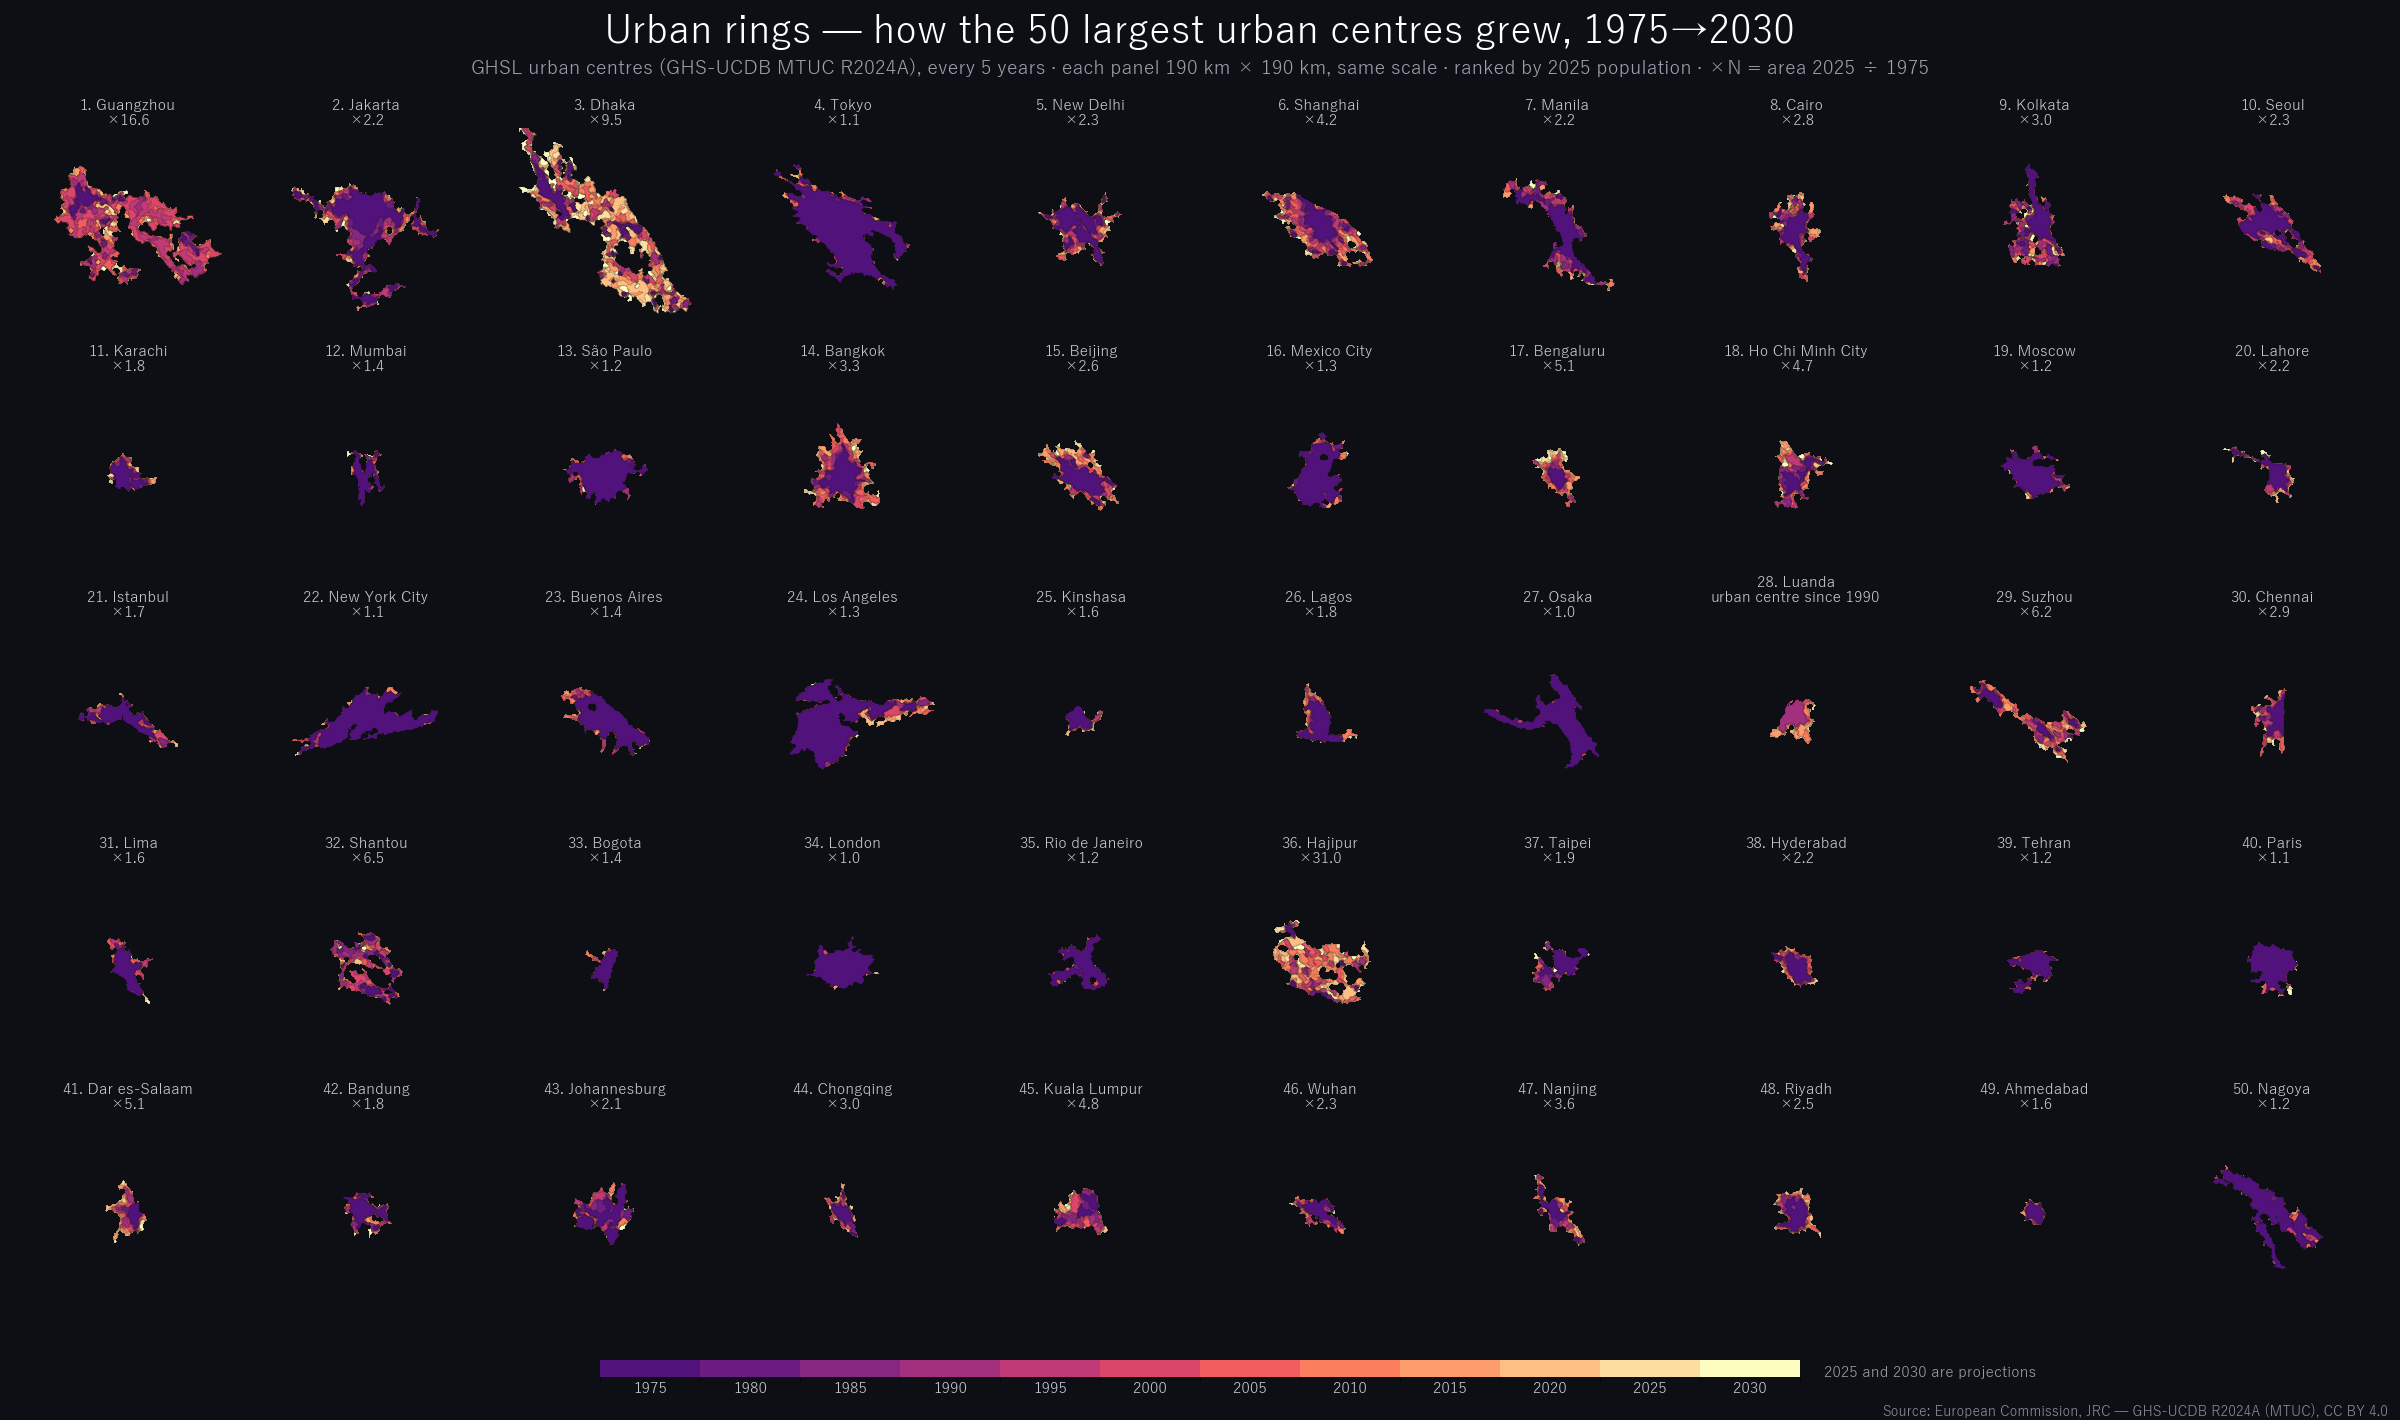
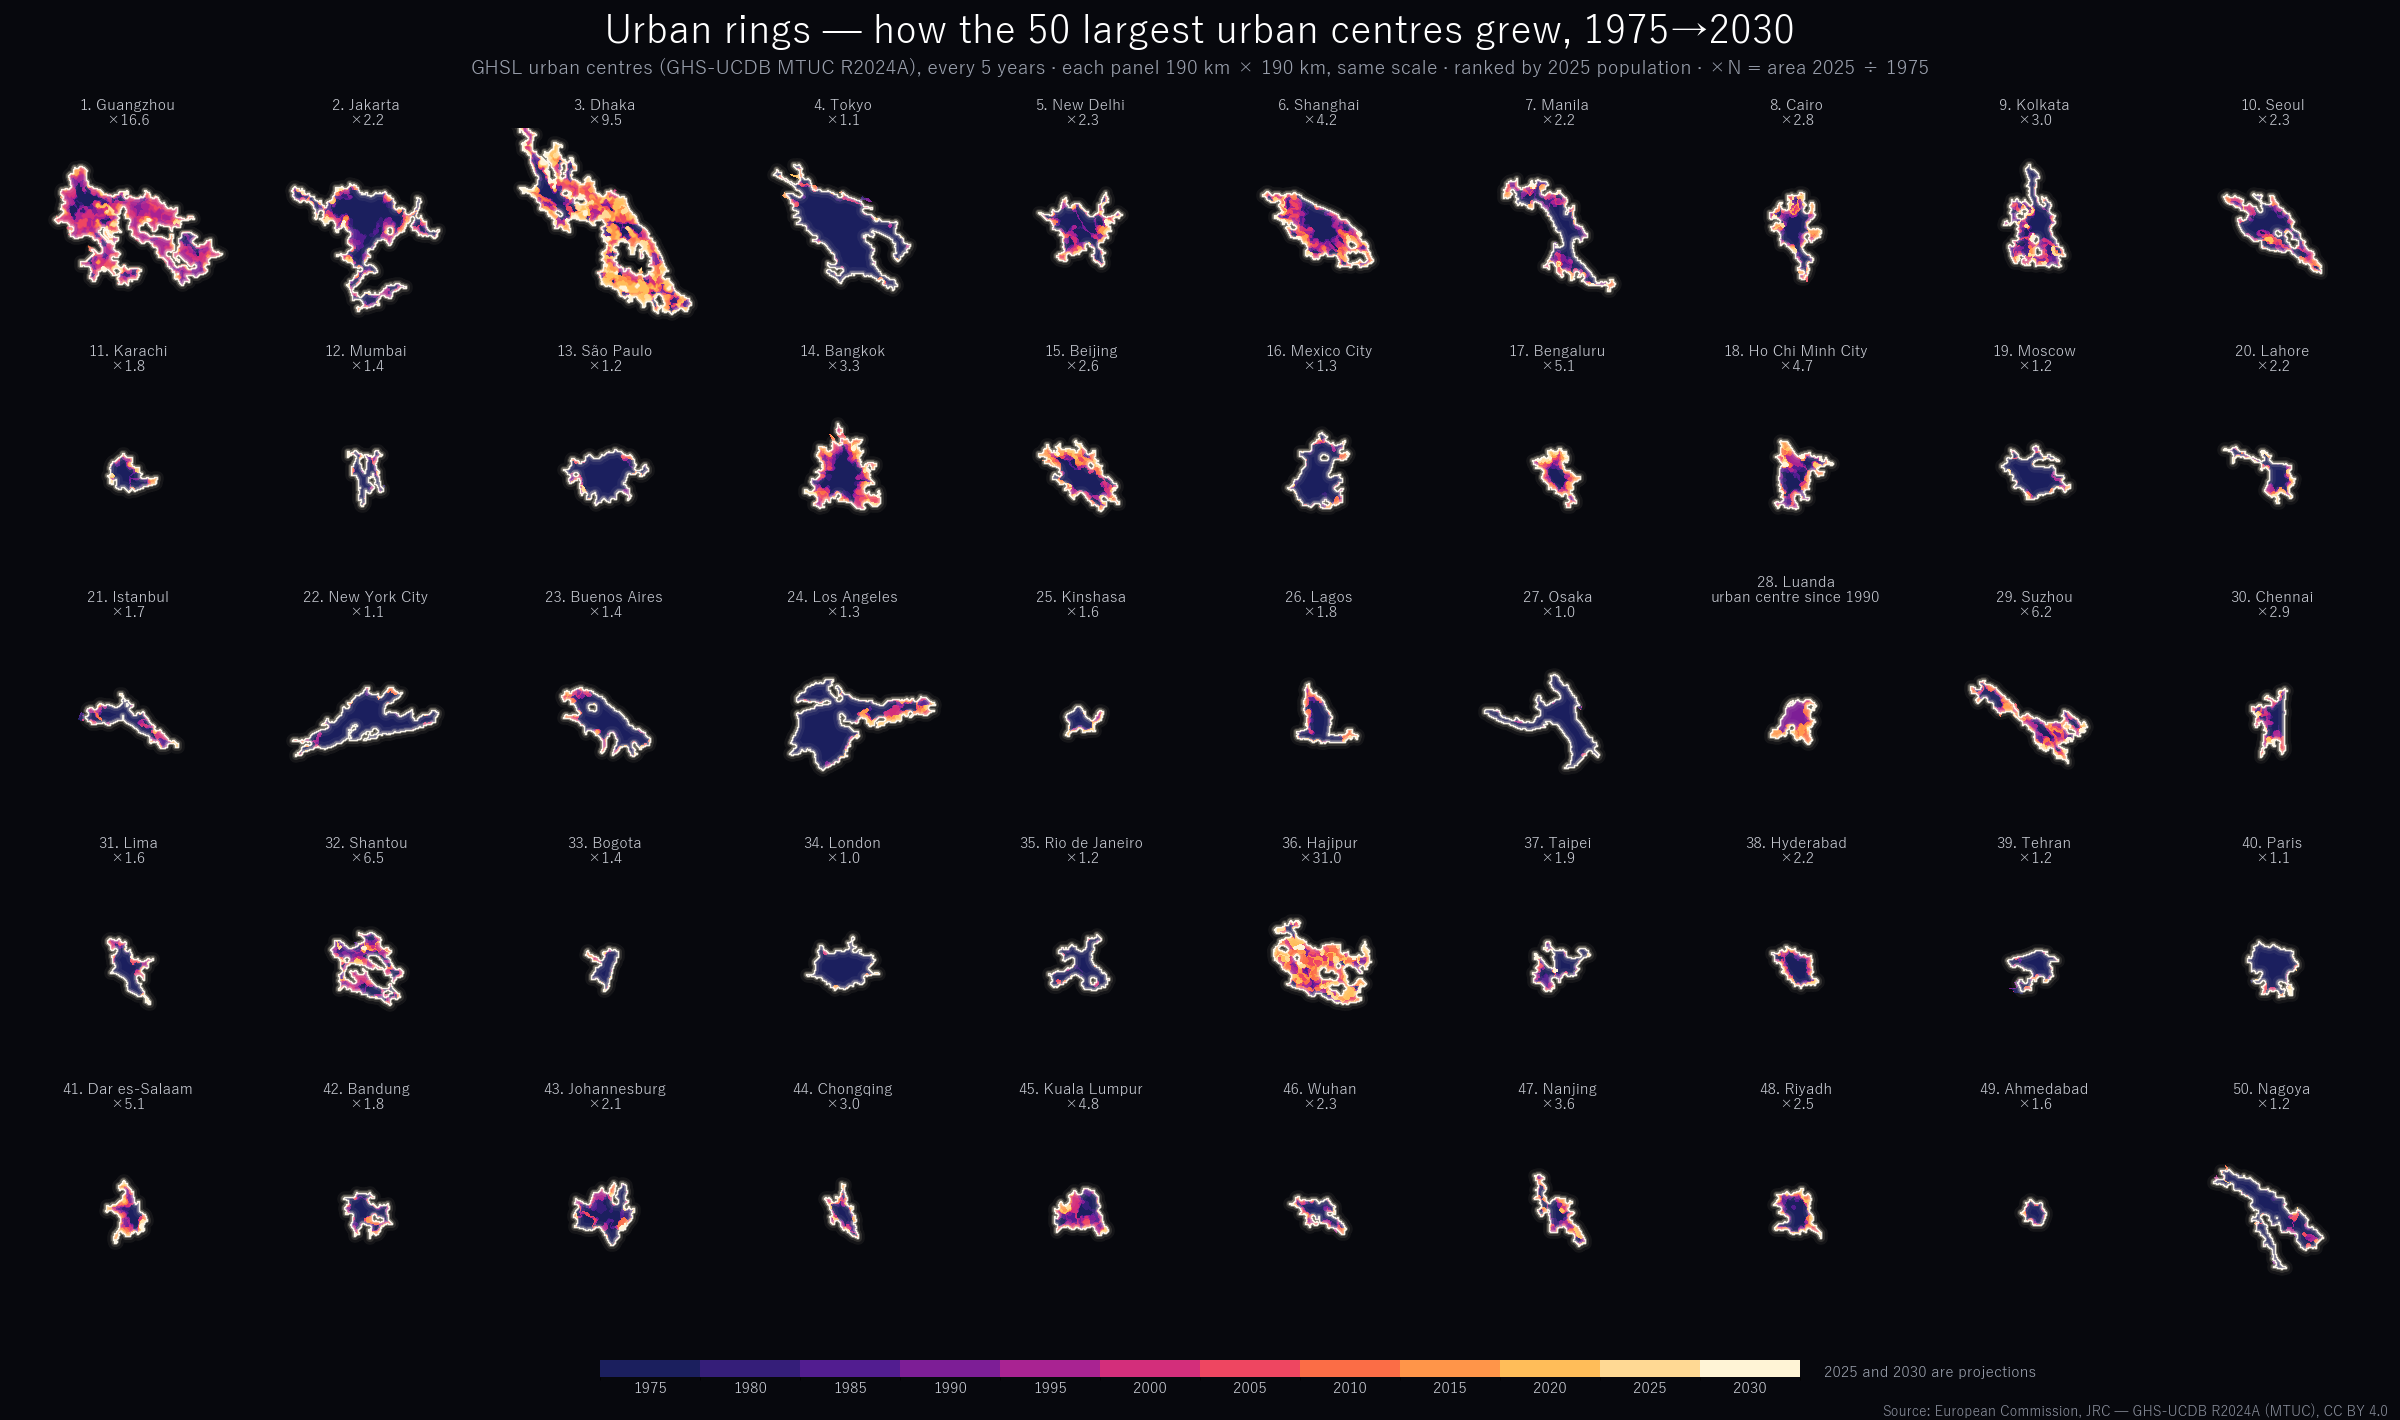
Day 3: 都市の年輪を年ごとのアニメーション（GIF・MP4）にし、配色と外周の発光を見直す (#21)
- 配色を暗い藍→白の12段にし、その年の外周を光らせる
- 図形は一度だけ作り、年ごとに表示を切り替えて書き出す（12コマで約20秒）

Claude-Session: https://claude.ai/code/session_01LQyb2CPPtaLAQQwmG6ctKN

diff --git a/day03-polygons/scripts/urban_rings.py b/day03-polygons/scripts/urban_rings.py
@@ -1,35 +1,46 @@
 """都市の年輪: GHS-UCDB R2024A MTUC の都市中心のポリゴンを、1975〜2030年の12時点で重ねる。
 
-使い方: python -I -X utf8 scripts/urban_rings.py data/ucdb_mtuc/GHS_UCDB_MTUC_GLOBE_R2024A.gpkg output
+使い方:
+  python -I -X utf8 scripts/urban_rings.py <MTUC の gpkg> <出力フォルダ> [still|anim|all]
+    still: urban_rings.png（1枚の図）と、確認用の途中の年の静止画 check_2000.png
+    anim:  urban_rings.gif と urban_rings.mp4（年ごとに広がっていくアニメーション）
 
 - 対象は、2025年の人口（MT_POP_TOT_2025）の上位50の都市中心
 - 各図は都市中心の2025年のポリゴンの重心を中心にした 190 km 四方。全部同じ縮尺（いちばん大きいダッカも収まる）
 - 年ごとのレイヤーから、その都市中心と同じ ID（ID_UC_G0 = ID_MTUC_G0）のポリゴンだけを描く。
   のちに合体した部分も同じ ID のマルチポリゴンになっているので、昔の姿までさかのぼれる
-- 新しい年から先に描き、古い年を上に重ねる（年輪のように、内側ほど古い）
+- 新しい年を下に、古い年を上に重ねる（年輪のように、内側ほど古い）
+- その時点でいちばん新しい年の外周を光らせる（太さと濃さを変えた線を重ねて、ぼかしたように見せる）
 - 倍率は MT_UCA_KM2_2025 ÷ MT_UCA_KM2_1975（データの面積の列をそのまま使う）
-- 出力: urban_rings.png（1枚の図）と urban_rings_top50.csv（使った都市と面積）
+- 図形は最初に一度だけ作り、コマごとには表示を切り替えるだけにする（描き直さない）
 """
 
+import shutil
+import subprocess
 import sys
 from pathlib import Path
 
 import geopandas as gpd
 import matplotlib
+import numpy as np
 
 matplotlib.use("Agg")
 import matplotlib.pyplot as plt
-from matplotlib import colormaps
-from matplotlib.colors import BoundaryNorm, ListedColormap, to_hex
+from matplotlib.colors import BoundaryNorm, LinearSegmentedColormap, ListedColormap, to_hex
+from matplotlib.patches import PathPatch
+from matplotlib.path import Path as MPath
 
 plt.rcParams["font.family"] = ["Yu Gothic", "Meiryo", "sans-serif"]
 
 YEARS = list(range(1975, 2031, 5))
 N = 50
 HALF = 95_000  # 図の半分の幅（m）
-BG = "#0d0f14"
-COLORS = [to_hex(colormaps["magma"](0.25 + 0.75 * i / (len(YEARS) - 1))) for i in range(len(YEARS))]
+BG = "#07080d"
+# 古い年は暗い藍、新しい年ほど熱い白に近づく（街の灯が外へ広がる見え方）
+RAMP = LinearSegmentedColormap.from_list("rings", ["#1b1f5e", "#4b1d8f", "#9b1f9a", "#e8336f", "#ff7a3d", "#ffc35c", "#fff4d6"])
+COLORS = [to_hex(RAMP(i / (len(YEARS) - 1))) for i in range(len(YEARS))]
 COL = dict(zip(YEARS, COLORS))
+GLOW = [(9.0, 0.06), (5.0, 0.12), (2.6, 0.30), (1.0, 0.95)]  # (線の太さ, 不透明度) 外側から
 
 
 def load(gpkg: str):
@@ -43,6 +54,16 @@ def load(gpkg: str):
     return top, layers
 
 
+def to_path(geom) -> MPath:
+    verts, codes = [], []
+    for p in getattr(geom, "geoms", [geom]):
+        for ring in [p.exterior, *p.interiors]:
+            c = np.asarray(ring.coords)
+            verts += c.tolist()
+            codes += [MPath.MOVETO] + [MPath.LINETO] * (len(c) - 2) + [MPath.CLOSEPOLY]
+    return MPath(verts, codes)
+
+
 def label(r) -> str:
     a75, a25 = r.MT_UCA_KM2_1975, r.MT_UCA_KM2_2025
     # 1975年に都市中心がなかった都市は、面積が空になっている。倍率の代わりに、都市中心になった年を書く
@@ -50,49 +71,83 @@ def label(r) -> str:
     return f"{r.GC_UCN_MAI_2025}\n{grow}"
 
 
-def draw(top, layers, upto: int, out: Path, show_year: bool = False):
+def build(top, layers):
+    """図と、年ごとの塗り・光の Patch を作って返す。表示はあとで切り替える"""
     cols, rows = 10, 5
     fig, axs = plt.subplots(rows, cols, figsize=(24, 14.2), facecolor=BG)
+    fills = {y: [] for y in YEARS}
+    glows = {y: [] for y in YEARS}
     for ax in axs.flat:
         ax.set_axis_off()
-    shown = [y for y in YEARS if y <= upto]
     for k, r in top.iterrows():
         ax = axs.flat[k]
         c = layers[2025].loc[r.ID_MTUC_G0].geometry.centroid
         ax.set_xlim(c.x - HALF, c.x + HALF)
         ax.set_ylim(c.y - HALF, c.y + HALF)
         ax.set_aspect("equal")
-        for y in reversed(shown):
-            if r.ID_MTUC_G0 in layers[y].index:
-                gpd.GeoSeries([layers[y].loc[r.ID_MTUC_G0].geometry]).plot(ax=ax, fc=COL[y], ec=BG, lw=0.15)
+        for i, y in enumerate(YEARS):
+            if r.ID_MTUC_G0 not in layers[y].index:
+                continue
+            path = to_path(layers[y].loc[r.ID_MTUC_G0].geometry)
+            z = 100 - i  # 古い年ほど上
+            fills[y].append(ax.add_patch(PathPatch(path, fc=COL[y], ec="none", zorder=z)))
+            for lw, a in GLOW:
+                ec = "#fffaf0" if lw < 2 else COL[y]
+                glows[y].append(ax.add_patch(PathPatch(path, fc="none", ec=ec, lw=lw, alpha=a, zorder=200, joinstyle="round")))
         ax.set_title(f"{k + 1}. {label(r)}", color="#c9ccd4", fontsize=11, pad=2, linespacing=1.15)
     fig.suptitle("Urban rings — how the 50 largest urban centres grew, 1975→2030", color="white", fontsize=28, y=0.99)
-    fig.text(0.5, 0.948, f"GHSL urban centres (GHS-UCDB MTUC R2024A), every 5 years · each panel 190 km × 190 km, same scale · ranked by 2025 population · ×N = area 2025 ÷ 1975",
+    fig.text(0.5, 0.948, "GHSL urban centres (GHS-UCDB MTUC R2024A), every 5 years · each panel 190 km × 190 km, same scale · ranked by 2025 population · ×N = area 2025 ÷ 1975",
              color="#9aa0ad", fontsize=14, ha="center")
-    # 凡例: 年ごとの色の帯
     cax = fig.add_axes([0.25, 0.03, 0.5, 0.012])
-    cmap = ListedColormap(COLORS)
     norm = BoundaryNorm(range(len(YEARS) + 1), len(YEARS))
-    cb = fig.colorbar(plt.cm.ScalarMappable(cmap=cmap, norm=norm), cax=cax, orientation="horizontal")
+    cb = fig.colorbar(plt.cm.ScalarMappable(cmap=ListedColormap(COLORS), norm=norm), cax=cax, orientation="horizontal")
     cb.set_ticks([i + 0.5 for i in range(len(YEARS))], labels=[str(y) for y in YEARS])
     cb.ax.tick_params(colors="#c9ccd4", labelsize=11, length=0)
     cb.outline.set_visible(False)
     fig.text(0.76, 0.03, "2025 and 2030 are projections", color="#9aa0ad", fontsize=11)
-    if show_year:
-        fig.text(0.5, 0.03, str(upto) + (" (projection)" if upto > 2020 else ""), color=COL[upto], fontsize=34, ha="center", weight="bold")
     fig.text(0.995, 0.003, "Source: European Commission, JRC — GHS-UCDB R2024A (MTUC), CC BY 4.0", color="#8a8f9c", fontsize=10, ha="right")
+    year_text = fig.text(0.02, 0.02, "", fontsize=40, weight="bold", ha="left")
     fig.subplots_adjust(left=0.005, right=0.995, top=0.91, bottom=0.075, wspace=0.03, hspace=0.22)
-    fig.savefig(out, dpi=100, facecolor=BG)
-    plt.close(fig)
+    return fig, fills, glows, year_text
 
 
-def main(gpkg: str, outdir: str) -> None:
+def show(fills, glows, year_text, upto: int, with_year: bool):
+    for y in YEARS:
+        for p in fills[y]:
+            p.set_visible(y <= upto)
+        for p in glows[y]:
+            p.set_visible(y == upto)
+    year_text.set_text((str(upto) + (" projection" if upto > 2020 else "")) if with_year else "")
+    year_text.set_color(COL[upto])
+
+
+def main(gpkg: str, outdir: str, mode: str = "all") -> None:
     out = Path(outdir)
     out.mkdir(parents=True, exist_ok=True)
     top, layers = load(gpkg)
     top[["ID_MTUC_G0", "GC_UCN_MAI_2025", "GC_CNT_GAD_2025", "MT_POP_TOT_2025", "MT_UCA_KM2_1975", "MT_UCA_KM2_2025", "MT_UCA_KM2_2030"]].to_csv(out / "urban_rings_top50.csv", index=False)
-    draw(top, layers, YEARS[-1], out / "urban_rings.png")
+    fig, fills, glows, year_text = build(top, layers)
+    if mode in ("still", "all"):
+        show(fills, glows, year_text, YEARS[-1], with_year=False)
+        fig.savefig(out / "urban_rings.png", dpi=100, facecolor=BG)
+        show(fills, glows, year_text, 2000, with_year=True)
+        fig.savefig(out / "check_2000.png", dpi=100, facecolor=BG)
+    if mode in ("anim", "all"):
+        frames = out / "anim"
+        shutil.rmtree(frames, ignore_errors=True)
+        frames.mkdir()
+        for i, y in enumerate(YEARS):
+            show(fills, glows, year_text, y, with_year=True)
+            fig.savefig(frames / f"{i:02d}.png", dpi=67, facecolor=BG)
+        # 1コマ0.7秒、最後は3秒止める。GIF はパレットを作ってから書き出す
+        n = len(YEARS)
+        lst = frames / "list.txt"
+        lst.write_text("".join(f"file '{i:02d}.png'\nduration {3.0 if i == n - 1 else 0.7}\n" for i in range(n)) + f"file '{n - 1:02d}.png'\n", encoding="utf-8")
+        ff = ["ffmpeg", "-y", "-loglevel", "error", "-f", "concat", "-safe", "0", "-i", lst.as_posix()]
+        subprocess.run(ff + ["-vf", "split[a][b];[a]palettegen=max_colors=128[p];[b][p]paletteuse=dither=none", "-loop", "0", (out / "urban_rings.gif").as_posix()], check=True)
+        subprocess.run(ff + ["-vf", "fps=30,scale=trunc(iw/2)*2:trunc(ih/2)*2", "-c:v", "libx264", "-crf", "18", "-pix_fmt", "yuv420p", "-movflags", "+faststart", (out / "urban_rings.mp4").as_posix()], check=True)
+    plt.close(fig)
 
 
 if __name__ == "__main__":
-    main(sys.argv[1], sys.argv[2])
+    main(sys.argv[1], sys.argv[2], sys.argv[3] if len(sys.argv) > 3 else "all")

diff --git a/day03-polygons/README.md b/day03-polygons/README.md
@@ -14,9 +14,11 @@
 
 ## 投稿するもの: 都市の年輪（Urban rings）
 
-![都市の年輪](urban_rings.png)
+![都市の年輪（1975→2030 のアニメーション）](urban_rings.gif)
 
-2025年の人口が多い順に50の都市中心について、1975年から2030年まで5年ごとの都市中心のポリゴンを、年輪のように重ねた。内側の紫ほど古く、外側の明るい色ほど新しい。どの図も 190 km 四方で、同じ縮尺。
+最後の年の1枚: [urban_rings.png](urban_rings.png)
+
+2025年の人口が多い順に50の都市中心について、1975年から2030年まで5年ごとの都市中心のポリゴンを、年輪のように重ねた。内側の暗い藍ほど古く、外側の白に近い色ほど新しい。アニメーションでは、その年の外周を光らせる。どの図も 190 km 四方で、同じ縮尺。
 
 - 広州は1975→2025年に都市中心の面積が16.6倍、ダッカは9.5倍。東京は1.1倍、大阪は1.0倍で、ほとんど広がっていない
 - 上位50のうち、15都市は1.5倍未満、13都市は3倍以上
@@ -39,12 +41,12 @@ GHSL の都市化度（Degree of Urbanisation）の定義で、人口密度が1 
 ```sh
 # GHS-UCDB R2024A MTUC（V1.2）を取得して展開
 curl -L -o data/ucdb_mtuc/mtuc.zip https://jeodpp.jrc.ec.europa.eu/ftp/jrc-opendata/GHSL/GHS_UCDB_GLOBE_R2024A/GHS_UCDB_MTUC_GLOBE_R2024A/V1-2/GHS_UCDB_MTUC_GLOBE_R2024A_V1_2.zip
-python -I -X utf8 scripts/urban_rings.py data/ucdb_mtuc/GHS_UCDB_MTUC_GLOBE_R2024A.gpkg output
-cp output/urban_rings.png urban_rings.png
+python -I -X utf8 scripts/urban_rings.py data/ucdb_mtuc/GHS_UCDB_MTUC_GLOBE_R2024A.gpkg output   # 図・GIF・MP4
+cp output/urban_rings.png output/urban_rings.gif .
 ```
 
 - 年ごとのレイヤー（GHSL_UCDB_MTUC_{年}_GLOBE_R2024）から、その都市中心と同じ ID（ID_UC_G0）のポリゴンだけを描く。新しい年から先に描き、古い年を上に重ねる
-- 色は magma の12段。matplotlib・GeoPandas で描いた。GHSL 全体の整理は [docs/ghsl.md](../docs/ghsl.md)
+- 色は暗い藍→紫→赤→橙→白の12段。光は、太さと濃さを変えた外周の線を4本重ねて、ぼかしたように見せる。図形は一度だけ作り、年ごとには表示を切り替えて書き出す（GIF は1コマ0.7秒、最後の年で3秒止める）。matplotlib・GeoPandas・ffmpeg で作った。GHSL 全体の整理は [docs/ghsl.md](../docs/ghsl.md)
 
 ### データ
 

diff --git a/docs/x-post.md b/docs/x-post.md
@@ -102,4 +102,4 @@ https://shiwaku.github.io/30daymapchallenge-2026/day02-lines/site/
 
 ### Day 3 — Polygons
 
-本文とリプライは day03-polygons/README.md の「投稿文の下書き」。添付は day03-polygons/urban_rings.png。
+本文とリプライは day03-polygons/README.md の「投稿文の下書き」。添付は day03-polygons/output/urban_rings.mp4（X には GIF より MP4 がよい。GIF は day03-polygons/urban_rings.gif）。
